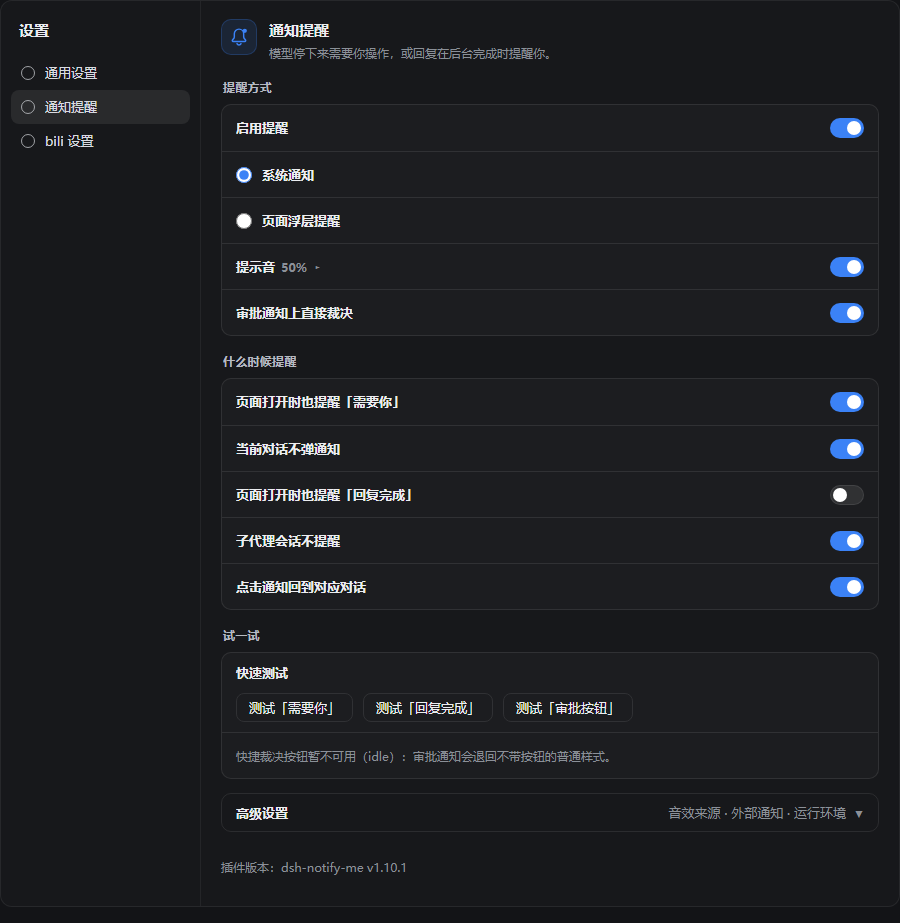
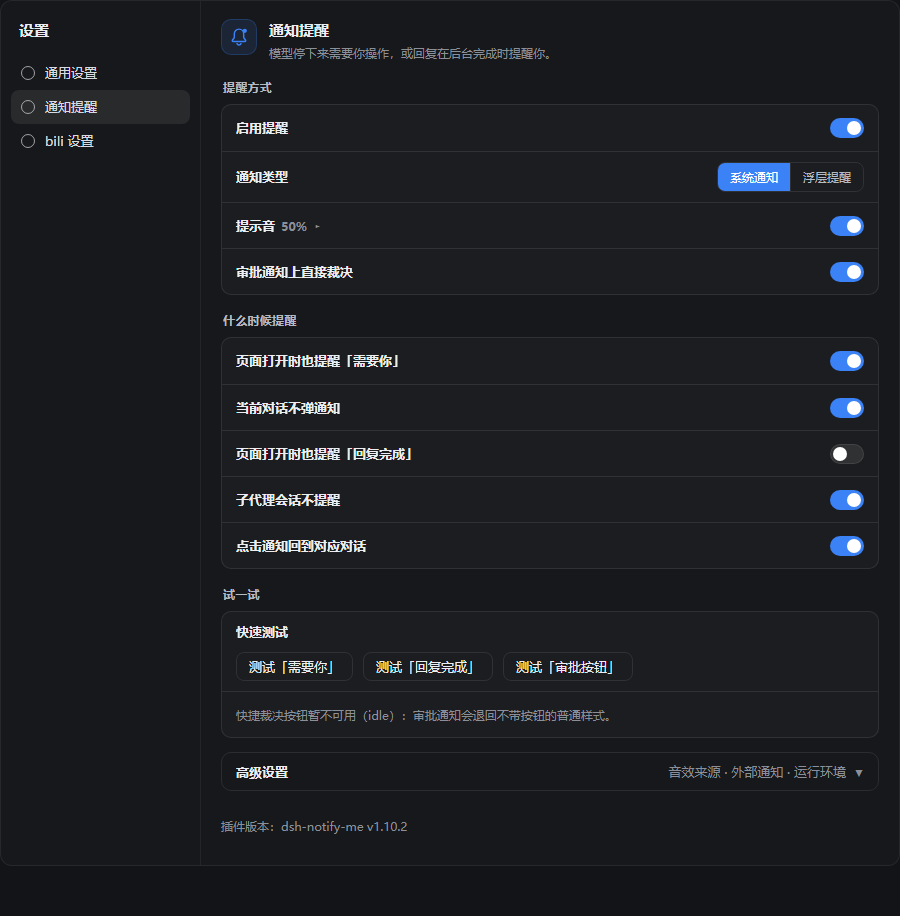
feat: alert type as a segmented control (1.10.2)
Replace the two radio rows with one segmented row so the exclusive choice is obvious; keep the overlay corner as a collapsible sub-row.

diff --git a/lib/client.js b/lib/client.js
@@ -1964,7 +1964,7 @@
       });
     } catch (e) {}
     // keep in sync with package.json "version" on every release
-    api.version = "1.10.1";
+    api.version = "1.10.2";
     api.setConfig = function (patch) { return setConfigLocal(patch); };
     api.resetConfig = function () {
       try {
@@ -2183,7 +2183,10 @@
       bridgeOffTail: "）：审批通知会退回不带按钮的普通样式。",
       bridgeOffDesktop: "系统通知没有「同意 / 拒绝」按钮：桌面端页面（dsh-app://）注册不了 Service Worker（宿主少给 allowServiceWorkers 特权），按钮发不出来。想一键裁决就把「提醒方式」切到「页面浮层」。",
       overlay: "页面浮层提醒",
-      overlayHint: "在窗口角落画提醒卡片：窗口在哪块屏，它就在哪块屏；系统通知只会出现在主屏，主屏不看时用它。不需要通知权限，卡片上能直接「同意 / 拒绝」。与上面二选一，选它就不再弹系统通知。",
+      overlayHint: "在窗口角落画提醒卡片：窗口在哪块屏，它就在哪块屏；系统通知只会出现在主屏，主屏不看时用它。不需要通知权限，卡片上能直接「同意 / 拒绝」。与系统通知二选一。",
+    channelLabel: "通知类型",
+    overlaySeg: "浮层提醒",
+    channelHint: "系统通知只会出现在主屏，进通知中心要权限，桌面端也没有「同意 / 拒绝」按钮；页面浮层画在 DSH 窗口所在的那块屏，不需要权限，卡片上能直接裁决。两个只能选一个。",
       overlayCorner: "浮层位置",
       overlayCornerHint: "贴在 DSH 窗口的哪个角；窗口在哪块屏，浮层就出现在哪块屏。",
       overlayPosTR: "右上",
@@ -2310,7 +2313,10 @@
       bridgeOffTail: "); approval toasts fall back to their plain form.",
       bridgeOffDesktop: "System notifications carry no Approve / Reject buttons: dsh-app:// pages cannot register a Service Worker (the shell does not grant the allowServiceWorkers privilege), so the buttons cannot be attached. Switch the alert channel to the in-page overlay to settle approvals in one click.",
       overlay: "In-page overlay",
-      overlayHint: "Draw a card in the window corner, on whatever display the window sits on. System notifications only land on the primary display. No permission needed, and the card carries Approve / Reject directly. Pick this or the system notification above: choosing it stops system notifications.",
+      overlayHint: "Draw a card in the window corner, on whatever display the window sits on. System notifications only ever show on the primary display. No permission needed, and the card carries Approve / Reject directly. It replaces system notifications rather than adding to them.",
+    channelLabel: "Alert type",
+    overlaySeg: "Overlay",
+    channelHint: "System notifications land in the Windows notification center: permission needed, primary display only, and no Approve / Reject buttons on the Desktop shell. The in-page overlay draws on whichever display the DSH window sits on, needs no permission, and lets the Desktop shell decide right on the card. Pick one.",
       overlayCorner: "Overlay position",
       overlayCornerHint: "Which corner of the DSH window the cards stack in; they follow the window to whatever display it is on.",
       overlayPosTR: "Top right",
@@ -2448,8 +2454,11 @@
       ".dnm-knob{position:absolute;top:2px;left:2px;width:14px;height:14px;border-radius:50%;background:#fff;transition:left .15s ease}" +
       ".dnm-switch.on .dnm-knob{left:16px}" +
       ".dnm-radio{flex:none;width:16px;height:16px;margin:0;accent-color:var(--dsw-alias-state-business-primary,#3b82f6);cursor:pointer}" +
-      ".dnm-rowRadio{justify-content:flex-start;gap:10px}" +
-      ".dnm-rowRadio .dnm-rowText{flex:1}" +
+      ".dnm-seg{display:inline-flex;flex:none;border:1px solid var(--dsw-alias-border-l2,rgba(128,128,128,.35));border-radius:8px;overflow:hidden}" +
+      ".dnm-segBtn{height:28px;padding:0 12px;border:0;background:transparent;color:var(--dsw-alias-label-secondary,rgba(90,90,90,.95));font:inherit;font-size:12px;line-height:28px;cursor:pointer;white-space:nowrap}" +
+      ".dnm-segBtn+.dnm-segBtn{border-left:1px solid var(--dsw-alias-border-l2,rgba(128,128,128,.35))}" +
+      ".dnm-segBtn:hover{color:var(--dsw-alias-label-primary,rgba(20,20,20,.9))}" +
+      ".dnm-segBtn.on{background:var(--dsw-alias-state-business-primary,#3b82f6);color:#fff}" +
       ".dnm-range{width:150px;accent-color:var(--dsw-alias-state-business-primary,#3b82f6)}" +
       ".dnm-select{border:1px solid var(--dsw-alias-border-l2,rgba(128,128,128,.4));background:var(--dsw-alias-bg-layer-1,rgba(255,255,255,.03));color:var(--dsw-alias-label-primary,rgba(20,20,20,.9));border-radius:8px;padding:5px 8px;font-size:13px;font-family:inherit}" +
       ".dnm-btn{border:1px solid var(--dsw-alias-border-l2,rgba(128,128,128,.4));background:transparent;color:var(--dsw-alias-label-primary,rgba(20,20,20,.9));border-radius:8px;padding:5px 12px;font-size:13px;cursor:pointer;font-family:inherit}" +
@@ -2912,24 +2921,27 @@
       function secTitle(labelText) {
         return h("div", { className: "dnm-secTitle" }, labelText);
       }
-      // One channel at a time, so the pair renders as radios, not switches. The
-      // radio sits ahead of the label: two rows sharing one choice read as a
-      // list of options, which a lone dot on the far right does not.
-      function rowRadio(labelText, hintText, checked, onChange) {
-        var pick = function () { if (!checked) onChange(); };
-        return tipRow("dnm-row dnm-rowRadio", hintText, [
-          h("input", {
-            type: "radio",
-            className: "dnm-radio",
-            name: "dnm-alert-channel",
-            checked: !!checked,
-            "aria-label": labelText,
-            onChange: pick,
-            onClick: pick
-          }),
+      // One channel at a time. A pair of radios read as two unrelated dots, so
+      // the choice is a segmented control: the filled half is the active option.
+      function segButton(labelText, checked, onPick) {
+        return h("button", {
+          type: "button",
+          role: "radio",
+          "aria-checked": checked ? "true" : "false",
+          "aria-label": labelText,
+          className: "dnm-segBtn" + (checked ? " on" : ""),
+          onClick: function () { if (!checked) onPick(); }
+        }, labelText);
+      }
+      function rowChannel(labelText, hintText, current, onPick) {
+        return tipRow("dnm-row", hintText, [
           h("div", { className: "dnm-rowText" }, [
             h("div", { className: "dnm-rowLabel" }, labelText),
             srOnly(hintText)
+          ]),
+          h("div", { className: "dnm-seg", role: "radiogroup", "aria-label": labelText }, [
+            segButton(t("toast"), current !== "overlay", function () { onPick("toast"); }),
+            segButton(t("overlaySeg"), current === "overlay", function () { onPick("overlay"); })
           ])
         ]);
       }
@@ -2971,10 +2983,9 @@
           opts.valueText ? h("span", { className: "dnm-rowValue" }, opts.valueText) : null,
           h("span", { className: "dnm-chev" }, open ? "▾" : "▸")
         ]);
-        var row = tipRow(opts.rowClass || "dnm-row", opts.hintText, [
-          h("div", { className: "dnm-rowText" }, [label, srOnly(opts.hintText)]),
-          opts.control
-        ]);
+        var kids = [h("div", { className: "dnm-rowText" }, [label, srOnly(opts.hintText)])];
+        if (opts.control) kids.push(opts.control);
+        var row = tipRow(opts.rowClass || "dnm-row", opts.hintText, kids);
         return open ? [row, opts.sub] : [row];
       }
       var testRow = tipRow("dnm-row dnm-rowStack", t("testHint"), [
@@ -3004,22 +3015,13 @@
             patch({ enabled: v });
             if (!v && attentionActive > 0) { attentionActive = 0; applyTitle(); }
           }),
-          rowRadio(t("toast"), toastHintText(), cfg.channel !== "overlay", function () { patch({ channel: "toast" }); }),
+          rowChannel(t("channelLabel"), t("channelHint"), cfg.channel, function (next) { patch({ channel: next }); }),
           cfg.channel === "overlay" ? discloseRow({
             key: "overlayCorner",
-            rowClass: "dnm-row dnm-rowRadio",
-            labelText: t("overlay"),
-            hintText: t("overlayHint"),
+            rowClass: "dnm-row dnm-rowSub",
+            labelText: t("overlayCorner"),
+            hintText: t("overlayCornerHint"),
             valueText: t("overlayPos" + ({ "top-right": "TR", "bottom-right": "BR", "top-left": "TL", "bottom-left": "BL" })[overlayCorner()] || "BR"),
-            control: h("input", {
-              type: "radio",
-              className: "dnm-radio",
-              name: "dnm-alert-channel",
-              checked: true,
-              "aria-label": t("overlay") + " " + t("overlayCorner"),
-              onChange: function () {},
-              onClick: function () {}
-            }),
             sub: tipRow("dnm-row dnm-rowSub", t("overlayCornerHint"), [
               h("div", { className: "dnm-rowText" }, [
                 h("div", { className: "dnm-rowLabel" }, t("overlayCorner")),
@@ -3037,7 +3039,7 @@
                 h("option", { value: "bottom-left" }, t("overlayPosBL"))
               ])
             ])
-          }) : rowRadio(t("overlay"), t("overlayHint"), false, function () { patch({ channel: "overlay" }); }),
+          }) : null,
           cfg.sound ? discloseRow({
             key: "volume",
             labelText: t("sound"),

diff --git a/README.en.md b/README.en.md
@@ -13,7 +13,7 @@
 [![npm total downloads](https://img.shields.io/npm/dt/dsh-notify-me?style=flat-square&label=total%20downloads&color=1F883D)](https://www.npmjs.com/package/dsh-notify-me)
 [![License: MIT](https://img.shields.io/badge/license-MIT-blue?style=flat-square)](LICENSE)
 [![DSH Web and Desktop](https://img.shields.io/badge/DSH-Web%20%7C%20Desktop-blue?style=flat-square)](#installation)
-[![Client bundle size](https://img.shields.io/badge/client-%7E172%20KiB-green?style=flat-square)](lib/client.js)
+[![Client bundle size](https://img.shields.io/badge/client-%7E173%20KiB-green?style=flat-square)](lib/client.js)
 [![DSH Compatibility](https://img.shields.io/badge/DSH-tested%200.2.1--rc.2-6366f1.svg?style=flat-square)](#compatibility)
 [![Awesome DSH Plugin](https://awesome-dsh-plugin.com/badge.svg)](https://awesome-dsh-plugin.com)
 
@@ -47,7 +47,7 @@ A notification plugin for DSH Web / Desktop, so you can keep full access off wit
 
 ![The Notify me settings page: header, how you get told, when to alert, try it, and the collapsed Advanced block](https://raw.githubusercontent.com/chromoany/dsh-notify-me/main/docs/screenshots/settings-en.png)
 
-The real settings component (v1.10.1 defaults) rendered in a standalone demo shell. The alert channel is a single choice, and row explanations live in a hover tooltip that appears when the pointer rests on a title, which is why only the titles show here.
+The real settings component (v1.10.2 defaults) rendered in a standalone demo shell. Alert type is a segmented control, and row explanations live in a hover tooltip that appears when the pointer rests on a title, which is why only the titles show here.
 </details>
 
 ## Installation
@@ -121,7 +121,7 @@ Open **Settings → Notify me**. The page runs as how you get told, when to aler
 ### How you get told
 
 - **Enable reminders**: master switch — off means no toasts, no sounds, and the tab title is left alone;
-- **How you get told (pick one)**: system notifications or the in-page overlay — a single choice, so turning one on turns the other off;
+- **Alert type (pick one)**: one segmented control — system notifications on the left, in-page overlay on the right; whichever you pick is the only channel used;
   - **System notifications** (default): native toasts landing in the Windows / macOS notification center; needs notification permission;
   - **In-page overlay**: cards drawn in the page corner, on whichever display the window sits on — system notifications only land on the primary display. No permission needed, and the Desktop shell can Approve / Reject right on the card. Click the row open to pick one of four corners when it is the chosen channel. See [Secondary displays and the overlay](#secondary-displays-and-the-overlay);
 - **Sound / Volume**: the switch is direct; the slider folds into that row — click the title (▸ turns into ▾) to reveal it. What it plays comes from Advanced → Alert sound;
@@ -137,7 +137,7 @@ The **in-page overlay** skips the notification center and draws the card inside 
 - **No notification permission needed** — it works when permission was never granted, and on the Desktop shell where buttonless toasts are all the OS channel can do;
 - **Approval cards carry Approve / Reject** — the same decision as Allow once / Reject on the approval card, and they work on the Desktop too (no Service Worker involved). Clicking the card body opens its conversation;
 - **Lifetime** — "needs you" cards retire after 12s, "reply finished" after 6s, and an approval card with buttons after 18s; a card or its close button retires one earlier. At most 4 cards stack at once;
-- **Relation to system notifications** — it is one or the other. Both used to be switchable at once, which meant every alert arrived twice and the pair covered each other; 1.10.0 makes it a single choice, and an old config with the overlay on migrates to it.
+- **Relation to system notifications** — it is one or the other. Both used to be switchable at once, which meant every alert arrived twice and the pair covered each other; 1.10.0 made it a single choice, and 1.10.2 turns that into one segmented row. An old config with the overlay on migrates to it.
 
 The overlay only knows which screen the window is on, not which screen you are looking at. If the window stays on the primary display while you watch another one, it stays invisible — same as a toast.
 

diff --git a/docs/listing.md b/docs/listing.md
@@ -17,7 +17,7 @@
 
 ## 本插件的当前状态
 
-- npm：`dsh-notify-me` 已发布，`latest` 为 1.10.1（1.10.1 = 悬浮提示触发区收窄到标题文字本身，浮层位置与音量改成点标题展开；普通提醒 5 秒自收、带按钮 12 秒；1.10.0 = 提醒方式改二选一（系统通知 / 页面浮层单选，旧配置自动迁移），停留时间收紧、带按钮的卡片也会自动消失；1.9.5 = 桌面端抬窗口径改为「不稳定」（隔离复测：深链 3/3 无效）；1.9.3 = 悬浮提示只在行标题文字上触发，停在开关/滑块上不再弹；1.9.2 = 设置页说明改成悬浮提示，行内只留标题；1.9.1 = 设置左侧导航行图标换成品牌铃铛；1.9.0 = 品牌标志 `docs/brand/` + 设置页重排：页眉 / 提醒方式 / 什么时候提醒 / 试一试 / 折叠的高级设置，2026-10-20 发布；publish 返回 `PUT 202` 后约 1 分钟才在 registry 可读，属正常处理延迟），manifest 带 `dsh.bundle.patch` 与 `dsh.compatibility.dshReleases`（npm 上这份声明到 `0.2.0-rc.2`；仓库里已补到 `0.2.1-rc.2`，随下次发版同步。`0.2.1-rc.2` 宿主不再读取该字段，装不装只看 `peerDependencies` 与 `engines`）。
+- npm：`dsh-notify-me` 已发布，`latest` 为 1.10.2（1.10.2 = 悬浮提示触发区收窄到标题文字本身，浮层位置与音量改成点标题展开；普通提醒 5 秒自收、带按钮 12 秒；1.10.0 = 提醒方式改二选一（系统通知 / 页面浮层单选，旧配置自动迁移），停留时间收紧、带按钮的卡片也会自动消失；1.9.5 = 桌面端抬窗口径改为「不稳定」（隔离复测：深链 3/3 无效）；1.9.3 = 悬浮提示只在行标题文字上触发，停在开关/滑块上不再弹；1.9.2 = 设置页说明改成悬浮提示，行内只留标题；1.9.1 = 设置左侧导航行图标换成品牌铃铛；1.9.0 = 品牌标志 `docs/brand/` + 设置页重排：页眉 / 提醒方式 / 什么时候提醒 / 试一试 / 折叠的高级设置，2026-10-20 发布；publish 返回 `PUT 202` 后约 1 分钟才在 registry 可读，属正常处理延迟），manifest 带 `dsh.bundle.patch` 与 `dsh.compatibility.dshReleases`（npm 上这份声明到 `0.2.0-rc.2`；仓库里已补到 `0.2.1-rc.2`，随下次发版同步。`0.2.1-rc.2` 宿主不再读取该字段，装不装只看 `peerDependencies` 与 `engines`）。
 - imsai-sh / deepseek1024.com：条目 `catalog/plugins/chromoany--dsh-notify-me.json` 已合入 `main`（`added: 2026-09-09`），`Catalog sync` 工作流在每次 main 推送后自动跑。**2026-09-11 扩写条目描述以提升站内可搜性（PR #400，`static-review` 已通过、待合并）**：原描述里没有「消息提醒 / 桌面通知 / 提醒 / message alerts / reminder」，用户搜这些词完全命中不到——机制见下节。
 - awesome-dsh-plugin：条目文件 `data/plugins/chromoany__dsh-notify-me.yml` 在 **PR #4741**（`Submission gate` 绿；唯一红的 `check` 是仓库级构建失败，与本条目无关），**仍未合并**。2026-09-11 核查结论：该站**自 2026-09-09 03:13Z 起站点构建失败、数据停更在 09-08**（registry 顶层 `updated: 2026-09-08`、`count: 3408`、最大 `added: 2026-09-08`），且 **09-09 03:26Z 之后零合并**（`merged:>=2026-09-09T04:00:00Z` 精确等于 0）。反证：09-09 已合并的 #4591 `xtd1145/dsh-deepseek-cost-live`、#4495 `dearbld/dsh-living-memory`、#4503 `dsh-todo-float-ball` 在站点上**同样 404**。故"搜不到"是整条队列停滞，不是本条目被拒。
 

diff --git a/CHANGELOG.md b/CHANGELOG.md
@@ -2,6 +2,17 @@
 
 All notable changes to **dsh-notify-me** are documented here.
 
+## [1.10.2] — 2026-10-21
+
+### 变更
+
+- 设置页「提醒方式」重做成一行分段选择器：左边「系统通知」、右边「浮层提醒」，选中的那半填色。原来的两个单选圆点会出现「一个在左一个在右、像在打勾」的错位感，也读不出互斥关系。
+- 「浮层位置」只在选了浮层提醒时出现，作为可点开的子项（默认显示当前值，点标题展开）；「音量」同样改为可点开。
+- 设置行说明的悬浮提示改为只在标题文字上触发（之前的触发区是整行，空白处划过也会弹）。
+
+### 测试
+
+- 冒烟测试改断言「两个 role=radio 的分段按钮、选中半区带 on」；`npm test` 两套件通过。
 ## [1.10.1] — 2026-10-21
 
 ### 变更
